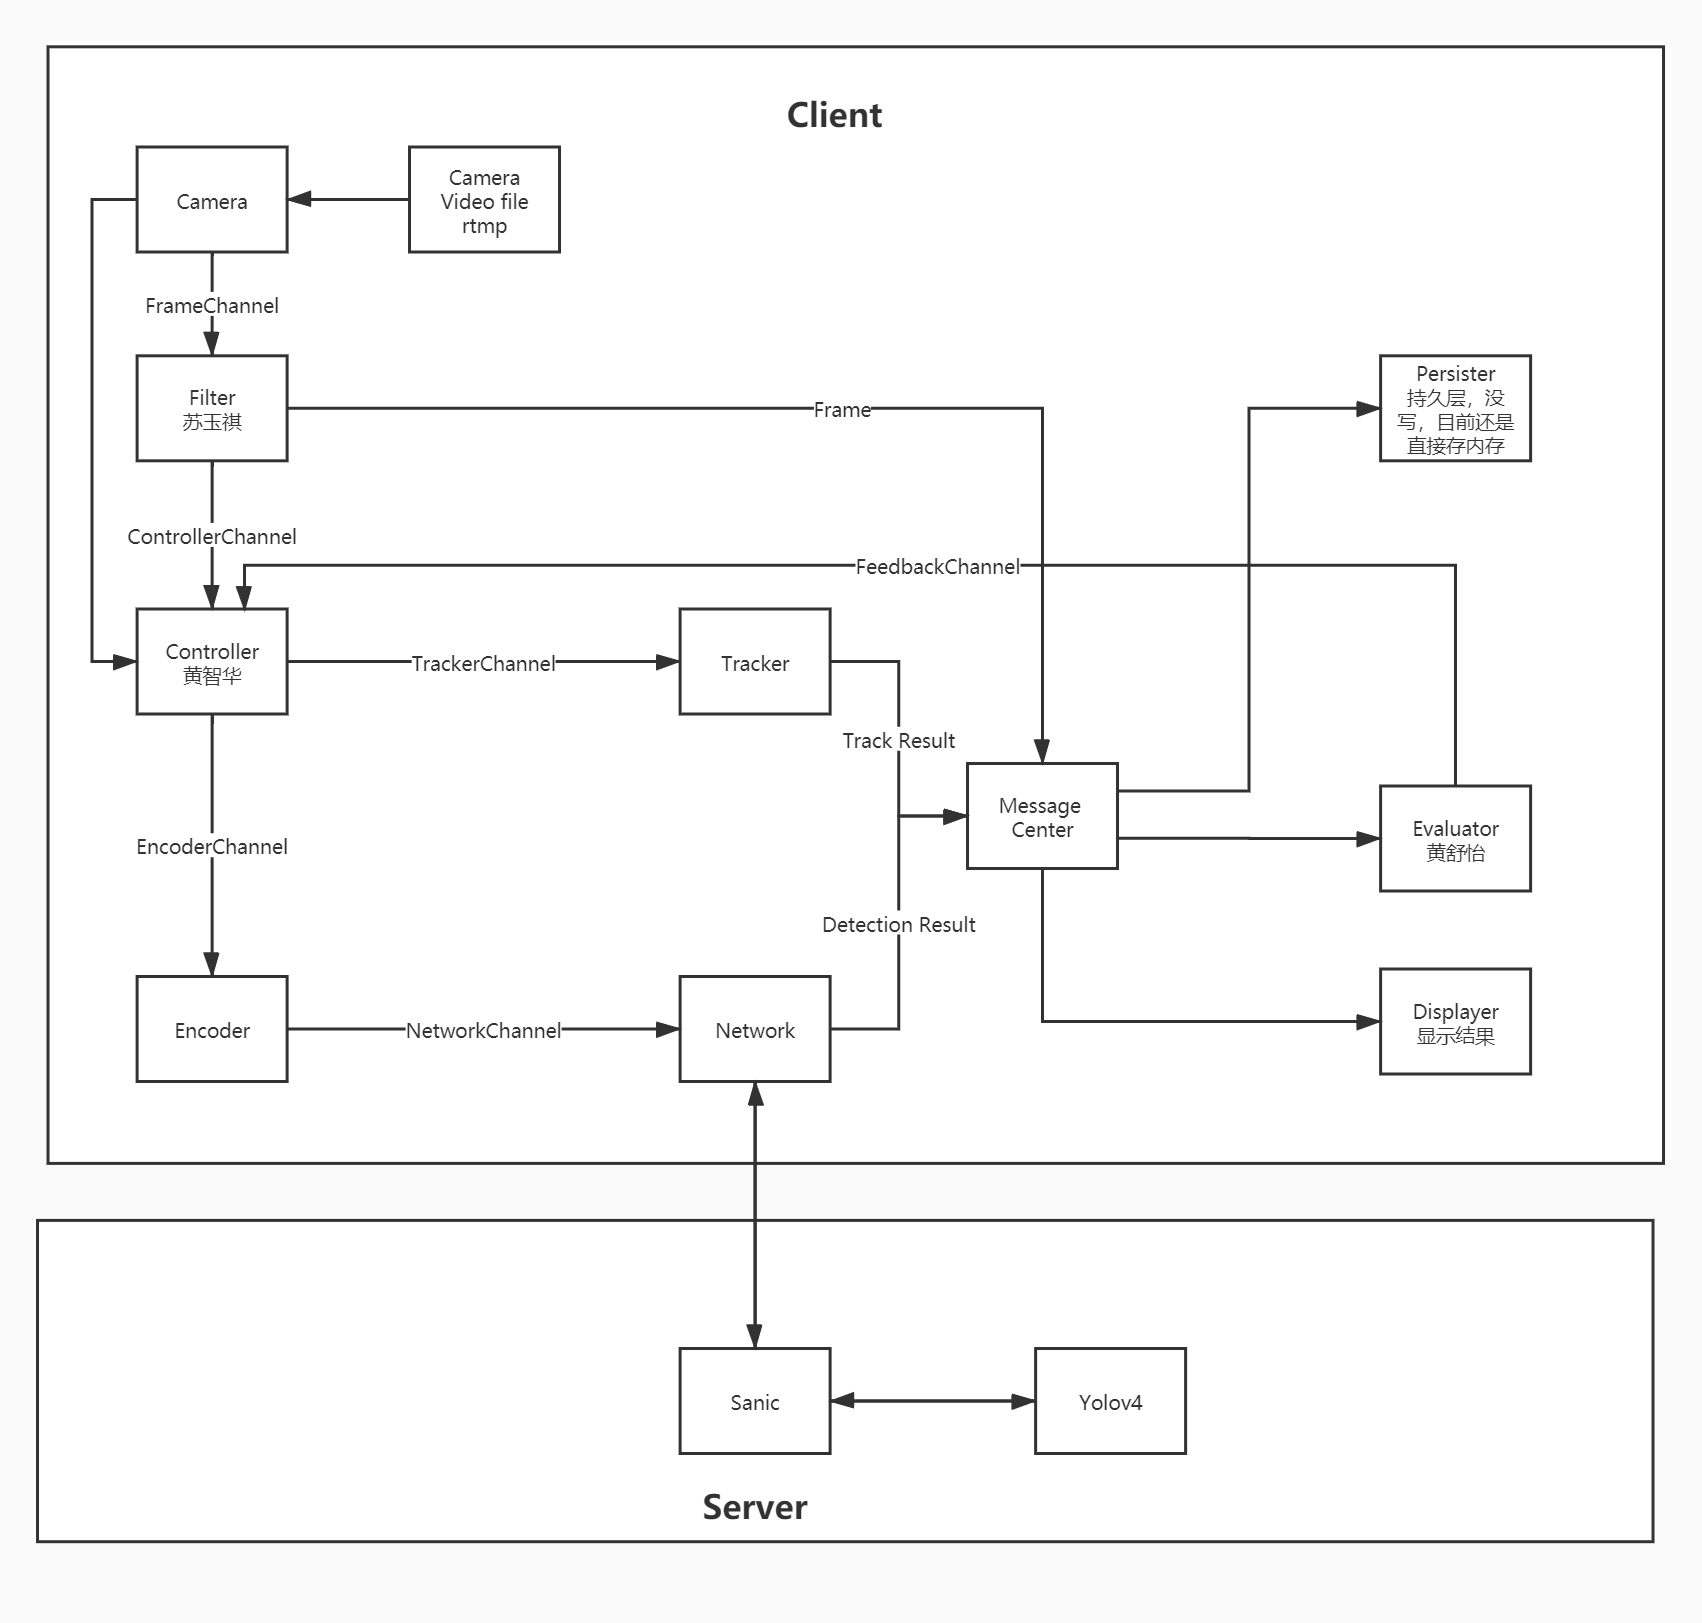
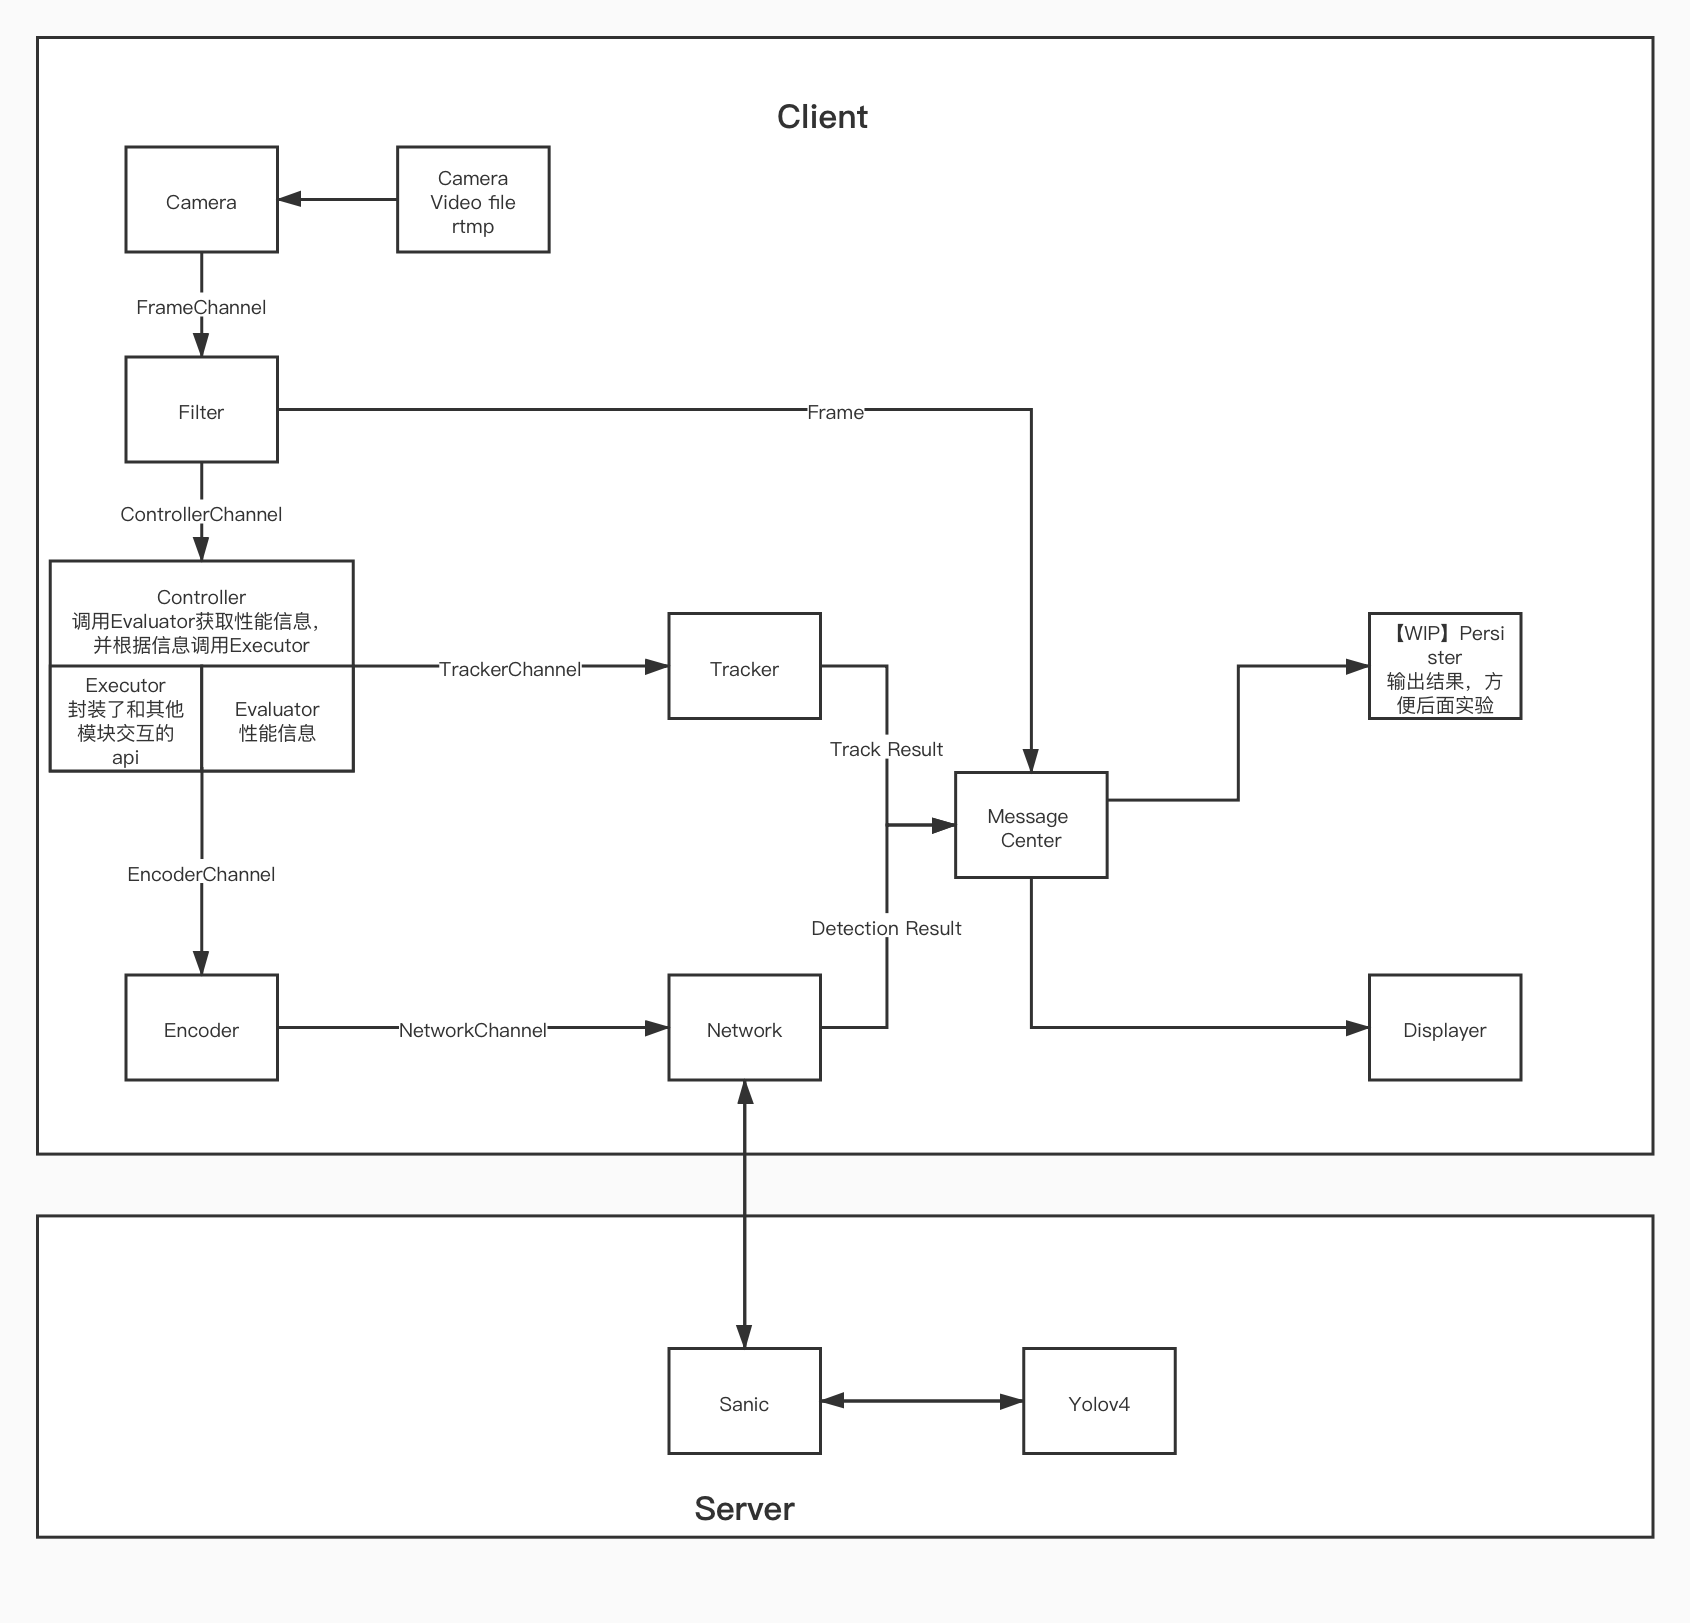
根据Jacobson / Karels算法计算相关性能数据,修改readme

diff --git a/client/evaluator.go b/client/evaluator.go
@@ -1,19 +1,51 @@
 package main
 
 import (
-	log "github.com/sirupsen/logrus"
+	"math"
 	"time"
+
+	log "github.com/sirupsen/logrus"
+)
+
+// Jacobson / Karels 算法超参，根据RFC6289的推荐值定义
+const (
+	ALPHA = 0.125
+	BETA  = 0.25
+	K     = 4
 )
 
 // Evaluator 计算性能数据
 type Evaluator struct {
-	Delays             []int64
-	EncodeTime         []int64
-	TrackingTime       []int64
-	ProcessTime        []int64
-	C2STime            []int64
-	S2CTime            []int64
-	messageCenter      MessageCenter
+	messageCenter MessageCenter
+	// 存储过去n秒的数据
+	DelaysHistory       []int64 // 发送检测到收到结果的时间
+	EncodeTimeHistory   []int64 // 编码时间
+	TrackingTimeHistory []int64 // 跟踪时间
+	ProcessTimeHistory  []int64 // 服务器端处理一帧的时间
+	C2STimeHistory      []int64 // 客户端传输数据到服务器端用时
+	S2CTimeHistory      []int64 // 服务器端传输数据到客户端用时
+	// 以下数据均根据根据Jacobson / Karels 算法计算
+	// 平滑时间，根据Jacobson / Karels 算法计算
+	SmoothedDelays       float64
+	SmoothedEncodeTime   float64
+	SmoothedTrackingTime float64
+	SmoothedProcessTime  float64
+	SmoothedC2STime      float64
+	SmoothedS2CTime      float64
+	// 偏离时间
+	DeviationDelays       float64
+	DeviationEncodeTime   float64
+	DeviationTrackingTime float64
+	DeviationProcessTime  float64
+	DeviationC2STime      float64
+	DeviationS2CTime      float64
+	// 触发警告的时间（和RTO的计算方式一样）
+	WarningDelays       float64
+	WarningEncodeTime   float64
+	WarningTrackingTime float64
+	WarningProcessTime  float64
+	WarningC2STime      float64
+	WarningS2CTime      float64
 }
 
 // NewEvaluator creates a new Evaluator
@@ -27,7 +59,9 @@ func NewEvaluator(messageCenter MessageCenter) Evaluator {
 func (evaluator *Evaluator) run() {
 	log.Infof("Evaluator running...")
 	// 这里应该搞个参数来控制，先mark了，还没做参数的分离
-	ticker := time.NewTicker(5 * time.Second)
+	ticker := time.NewTicker(1 * time.Second)
+
+	isStart := true
 
 	frameChannel := evaluator.messageCenter.Subscribe(FilterFrame)
 	defer evaluator.messageCenter.Unsubscribe(frameChannel)
@@ -70,7 +104,12 @@ func (evaluator *Evaluator) run() {
 				return
 			}
 			delay := response.SendTime - frameTime[response.FrameID]
-			evaluator.Delays = append(evaluator.Delays, delay)
+			evaluator.DelaysHistory = append(evaluator.DelaysHistory, delay)
+			if !isStart {
+				evaluator.SmoothedDelays = (1-ALPHA)*evaluator.SmoothedDelays + ALPHA*float64(delay)
+				evaluator.DeviationDelays = (1-BETA)*evaluator.DeviationDelays + BETA*float64(math.Abs(evaluator.SmoothedDelays-float64(delay)))
+				evaluator.WarningDelays = evaluator.SmoothedDelays + K*evaluator.DeviationDelays
+			}
 			delete(frameTime, response.FrameID)
 		case msg := <-trackingChannel:
 			trackResult, ok := msg.Content.(TrackResult)
@@ -79,7 +118,12 @@ func (evaluator *Evaluator) run() {
 				return
 			}
 			delay := trackResult.DoneTime - frameTime[trackResult.FrameID]
-			evaluator.Delays = append(evaluator.Delays, delay)
+			evaluator.DelaysHistory = append(evaluator.DelaysHistory, delay)
+			if !isStart {
+				evaluator.SmoothedDelays = (1-ALPHA)*evaluator.SmoothedDelays + ALPHA*float64(delay)
+				evaluator.DeviationDelays = (1-BETA)*evaluator.DeviationDelays + BETA*float64(math.Abs(evaluator.SmoothedDelays-float64(delay)))
+				evaluator.WarningDelays = evaluator.SmoothedDelays + K*evaluator.DeviationDelays
+			}
 			delete(frameTime, trackResult.FrameID)
 		case msg := <-encodeTimeChannel:
 			time, ok := msg.Content.(int64)
@@ -87,60 +131,119 @@ func (evaluator *Evaluator) run() {
 				log.Errorf("get wrong msg")
 				return
 			}
-			evaluator.EncodeTime = append(evaluator.EncodeTime, time)
+			evaluator.EncodeTimeHistory = append(evaluator.EncodeTimeHistory, time)
+			if !isStart {
+				evaluator.SmoothedEncodeTime = (1-ALPHA)*evaluator.SmoothedEncodeTime + ALPHA*float64(time)
+				evaluator.DeviationEncodeTime = (1-BETA)*evaluator.DeviationEncodeTime + BETA*float64(math.Abs(evaluator.SmoothedEncodeTime-float64(time)))
+				evaluator.WarningEncodeTime = evaluator.SmoothedEncodeTime + K*evaluator.DeviationEncodeTime
+			}
 		case msg := <-trackingTimeChannel:
 			time, ok := msg.Content.(int64)
 			if !ok {
 				log.Errorf("get wrong msg")
 				return
 			}
-			evaluator.TrackingTime = append(evaluator.TrackingTime, time)
+			evaluator.TrackingTimeHistory = append(evaluator.TrackingTimeHistory, time)
+			if !isStart {
+				evaluator.SmoothedTrackingTime = (1-ALPHA)*evaluator.SmoothedTrackingTime + ALPHA*float64(time)
+				evaluator.DeviationTrackingTime = (1-BETA)*evaluator.DeviationTrackingTime + BETA*float64(math.Abs(evaluator.SmoothedTrackingTime-float64(time)))
+				evaluator.WarningTrackingTime = evaluator.SmoothedTrackingTime + K*evaluator.DeviationTrackingTime
+			}
 		case msg := <-processTimeChannel:
 			time, ok := msg.Content.(int64)
 			if !ok {
 				log.Errorf("get wrong msg")
 				return
 			}
-			evaluator.ProcessTime = append(evaluator.ProcessTime, time)
-		case msg := <- csTimeChannel:
+			evaluator.ProcessTimeHistory = append(evaluator.ProcessTimeHistory, time)
+			if !isStart {
+				evaluator.SmoothedProcessTime = (1-ALPHA)*evaluator.SmoothedProcessTime + ALPHA*float64(time)
+				evaluator.DeviationProcessTime = (1-BETA)*evaluator.DeviationProcessTime + BETA*float64(math.Abs(evaluator.SmoothedProcessTime-float64(time)))
+				evaluator.WarningProcessTime = evaluator.SmoothedProcessTime + K*evaluator.DeviationProcessTime
+			}
+		case msg := <-csTimeChannel:
 			time, ok := msg.Content.(int64)
 			if !ok {
 				log.Errorf("get wrong msg")
 				return
 			}
-			evaluator.C2STime = append(evaluator.C2STime, time)
+			evaluator.C2STimeHistory = append(evaluator.C2STimeHistory, time)
+			if !isStart {
+				evaluator.SmoothedC2STime = (1-ALPHA)*evaluator.SmoothedC2STime + ALPHA*float64(time)
+				evaluator.DeviationC2STime = (1-BETA)*evaluator.DeviationC2STime + BETA*float64(math.Abs(evaluator.SmoothedC2STime-float64(time)))
+				evaluator.WarningC2STime = evaluator.SmoothedC2STime + K*evaluator.DeviationC2STime
+			}
 		case msg := <-scTimeChannel:
 			time, ok := msg.Content.(int64)
 			if !ok {
 				log.Errorf("get wrong msg")
 				return
 			}
-			evaluator.S2CTime = append(evaluator.S2CTime, time)
+			evaluator.S2CTimeHistory = append(evaluator.S2CTimeHistory, time)
+			if !isStart {
+				evaluator.SmoothedS2CTime = (1-ALPHA)*evaluator.SmoothedS2CTime + ALPHA*float64(time)
+				evaluator.DeviationS2CTime = (1-BETA)*evaluator.DeviationS2CTime + BETA*float64(math.Abs(evaluator.SmoothedS2CTime-float64(time)))
+				evaluator.WarningS2CTime = evaluator.SmoothedS2CTime + K*evaluator.DeviationS2CTime
+			}
 		case <-ticker.C:
 			// 定时显示目前的运行状况
 			//
-			log.Infof("--------------Running status of last 5 seconds--------------")
-			showAverageTime(evaluator.Delays, "delay")
-			showAverageTime(evaluator.EncodeTime, "encode time")
-			showAverageTime(evaluator.TrackingTime, "tracking time")
-			showAverageTime(evaluator.ProcessTime, "process time")
-			showAverageTime(evaluator.C2STime, "client to server time")
-			showAverageTime(evaluator.S2CTime, "server to client time")
-			log.Infof("--------------Running status of last 5 seconds--------------")
-			evaluator.Delays = make([]int64, 0)
-			evaluator.EncodeTime = make([]int64, 0)
-			evaluator.TrackingTime = make([]int64, 0)
-			evaluator.ProcessTime = make([]int64, 0)
-			evaluator.C2STime = make([]int64, 0)
-			evaluator.S2CTime = make([]int64, 0)
+			log.Infof("--------------Running status of last 1 seconds--------------")
+			delays := showAverageTime(evaluator.DelaysHistory, "delay")
+			encodeTime := showAverageTime(evaluator.EncodeTimeHistory, "encode time")
+			trackingTime := showAverageTime(evaluator.TrackingTimeHistory, "tracking time")
+			processTime := showAverageTime(evaluator.ProcessTimeHistory, "process time")
+			c2sTime := showAverageTime(evaluator.C2STimeHistory, "client to server time")
+			s2cTime := showAverageTime(evaluator.S2CTimeHistory, "server to client time")
+			log.Infof("--------------Running status of last 1 seconds--------------")
+			log.Infof("--------------Current status of Time --------------")
+			log.Infof("Smoothed Delays: %v, Deviation Delays: %v, Warning Delays: %v", evaluator.SmoothedDelays/1000000000, evaluator.DeviationDelays/1000000000, evaluator.WarningDelays/1000000000)
+			log.Infof("Smoothed EncodeTime: %v, Deviation EncodeTime: %v, Warning EncodeTime: %v", evaluator.SmoothedEncodeTime/1000000000, evaluator.DeviationEncodeTime/1000000000, evaluator.WarningEncodeTime/1000000000)
+			log.Infof("Smoothed TrackingTime: %v, Deviation TrackingTime: %v, Warning TrackingTime: %v", evaluator.SmoothedTrackingTime/1000000000, evaluator.DeviationTrackingTime/1000000000, evaluator.WarningTrackingTime/1000000000)
+			log.Infof("Smoothed ProcessTime: %v, Deviation ProcessTime: %v, Warning ProcessTime: %v", evaluator.SmoothedProcessTime/1000000000, evaluator.DeviationProcessTime/1000000000, evaluator.WarningProcessTime/1000000000)
+			log.Infof("Smoothed C2STime: %v, Deviation C2STime: %v, Warning C2STime: %v", evaluator.SmoothedC2STime/1000000000, evaluator.DeviationC2STime/1000000000, evaluator.WarningC2STime/1000000000)
+			log.Infof("Smoothed S2CTime: %v, Deviation S2CTime: %v, Warning S2CTime: %v", evaluator.SmoothedS2CTime/1000000000, evaluator.DeviationS2CTime/1000000000, evaluator.WarningS2CTime/1000000000)
+			log.Infof("--------------Current status of Time --------------")
+			evaluator.DelaysHistory = make([]int64, 0)
+			evaluator.EncodeTimeHistory = make([]int64, 0)
+			evaluator.TrackingTimeHistory = make([]int64, 0)
+			evaluator.ProcessTimeHistory = make([]int64, 0)
+			evaluator.C2STimeHistory = make([]int64, 0)
+			evaluator.S2CTimeHistory = make([]int64, 0)
+			if isStart {
+				evaluator.SmoothedDelays = float64(delays)
+				evaluator.DeviationDelays = float64(delays) / 2
+				evaluator.WarningDelays = evaluator.SmoothedDelays + K*evaluator.DeviationDelays
+
+				evaluator.SmoothedEncodeTime = float64(encodeTime)
+				evaluator.DeviationEncodeTime = float64(encodeTime) / 2
+				evaluator.WarningEncodeTime = evaluator.SmoothedEncodeTime + K*evaluator.DeviationEncodeTime
+
+				evaluator.SmoothedTrackingTime = float64(trackingTime)
+				evaluator.DeviationTrackingTime = float64(trackingTime) / 2
+				evaluator.WarningTrackingTime = evaluator.SmoothedTrackingTime + K*evaluator.DeviationTrackingTime
+
+				evaluator.SmoothedProcessTime = float64(processTime)
+				evaluator.DeviationProcessTime = float64(processTime) / 2
+				evaluator.WarningProcessTime = evaluator.SmoothedProcessTime + K*evaluator.DeviationProcessTime
+
+				evaluator.SmoothedC2STime = float64(c2sTime)
+				evaluator.DeviationC2STime = float64(c2sTime) / 2
+				evaluator.WarningC2STime = evaluator.SmoothedC2STime + K*evaluator.DeviationC2STime
+
+				evaluator.SmoothedS2CTime = float64(s2cTime)
+				evaluator.DeviationS2CTime = float64(s2cTime) / 2
+				evaluator.WarningS2CTime = evaluator.SmoothedS2CTime + K*evaluator.DeviationS2CTime
+			}
 		}
 	}
 }
 
-func showAverageTime(his []int64, name string) {
+func showAverageTime(his []int64, name string) int64 {
 	var total int64 = 0
 	for _, time := range his {
 		total += time
 	}
 	log.Infof("average %v: %v", name, float64(total)/float64(len(his)*1000000000))
+	return total
 }

diff --git a/simulation server/main.py b/simulation server/main.py
@@ -89,5 +89,5 @@ if __name__ == "__main__":
     # 5g 200mbps 20ms
     # wifi 40mbps 1ms
     # wifi 802.11ac 250mbps 1ms
-    app = createApp(1e10, 0, 0)
+    app = createApp(1e10, 0, 0.01)
     app.run(host="0.0.0.0", port=12345, protocol=WebSocketProtocol)

diff --git a/README.md b/README.md
@@ -8,17 +8,20 @@
 ├── client                                  client端代码
 │   ├── camera.go
 │   ├── client.go
+│   ├── common.go
 │   ├── controller.go
-│   ├── displayer.go
 │   ├── encoder.go
 │   ├── evaluator.go
+│   ├── executor.go
 │   ├── filter.go
 │   ├── go.mod
 │   ├── go.sum
 │   ├── message_center.go
 │   ├── network.go
 │   ├── persister.go
+│   ├── scheduler.go
 │   └── tracker.go
+│   ├── utils.go
 └── sanic                                   server端代码
     ├── app
     │   └── yolov4                          https://github.com/Tianxiaomo/pytorch-YOLOv4修改得来
@@ -29,13 +32,25 @@
     │       └── weight
     │           ├── download.sh             这里下载权重之后应该就能跑了
     └── main.py
+└── simulation server                       模拟服务器
+    ├── app
+    │   └── yolov4                          https://github.com/Tianxiaomo/pytorch-YOLOv4修改得来
+    │       ├── __init__.py                 可以在这修改是否使用GPU，使用完整模型还是tiny
+    │       ├── cfg
+    │       ├── data
+    │       ├── tool
+    │       └── weight
+    │           ├── download.sh             这里下载权重之后应该就能跑了
+    ├── result                              存放缓存的结果
+    └── main.py
+    └── video2result.py                     将视频的结果缓存下来
 ```
 
 ![framework](pic/framework.jpg)
 
 ## Prerequisites
 
-- [Go](https://golang.org/)：建议使用1.15版本
+- [Go](https://golang.org/)：建议使用1.15+版本
 - [GoCV](https://gocv.io/)：0.25（0.26版本删除了部分tracker）
 - [python](https://www.python.org/)：3.6+
 - [pytorch](https://pytorch.org/)：应该1.0版本以上就行
@@ -89,18 +104,9 @@ go run .
 - 如果你需要Frame，Detection Result这些数据，可以给自己的模块加个messageCenter对象，然后调用messageCenter的Subscribe方法拿到通知所用的channel（可以参考其他模块比如Persister），不知道Topic是什么的话，去对应的模块找一下调用Publish方法的地方就知道了
 - 遇到问题问下我就懂了（逃
 
-### Message Center
-
-Publish的时候直接插入到队列中
-
-开多个goroutine
-
-设置队列是否持久化信息
-
 ## TODO
 
-- [ ] 历史帧到达一定数量后自动删除
 - [ ] 更细致的日志信息
 - [ ] 对网络情况的自适应
-- [ ] Frame Scheduler
-- [ ] gzip压缩（需要连接双方协商，不过测试下来gzip和zlib对图片的压缩率都不高）
+- [ ] 对检测结果是否可信的判断
+- [ ] benchmark
